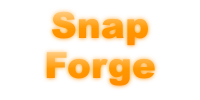
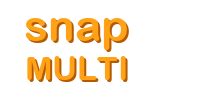
chore(fb-display): rebrand bottom-bar text from SnapForge to snapMULTI
Regenerated snapforge-text.png with "snap" / "MULTI" stacked on two
lines, Arial Rounded Bold + drop shadow matching the original yellow
logo palette (rgb 255,162,24 with darker orange shadow). MULTI size
reduced (33pt vs snap 44pt) to align width with snap.

Filename kept as snapforge-text.png for backward-compat with existing
installs and bind-mounts. Two code comments updated to reflect actual
branding.

Live-validated on snapvideo + snapdigi via scp + container restart.

Changed region(s): [[0.12, 0.48, 0.81, 0.9], [0.12, 0.09, 0.78, 0.54]]

diff --git a/client/common/docker/fb-display/fb_display.py b/client/common/docker/fb-display/fb_display.py
@@ -966,7 +966,7 @@ def render_base_frame() -> Image.Image:
         fill=(10, 10, 15),
     )
 
-    # Bottom bar: logo (left) + SnapForge brand image
+    # Bottom bar: logo (left) + snapMULTI brand image
     if _logo_img is not None:
         logo_resized = _logo_img.resize((L["logo_size"], L["logo_size"]), Image.LANCZOS)
         bg.paste(logo_resized, (L["logo_x"], L["logo_y"]), logo_resized)
@@ -1626,7 +1626,7 @@ async def main() -> None:
         except Exception as e:
             logger.warning(f"Failed to load logo: {e}")
 
-    # Load brand text image (SnapForge)
+    # Load brand text image (snapMULTI). Filename kept as snapforge-text.png for backward-compat with existing installs/bind-mounts.
     brand_path = "/app/snapforge-text.png"
     if os.path.exists(brand_path):
         try: